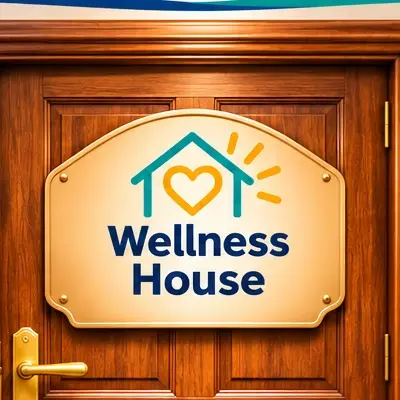
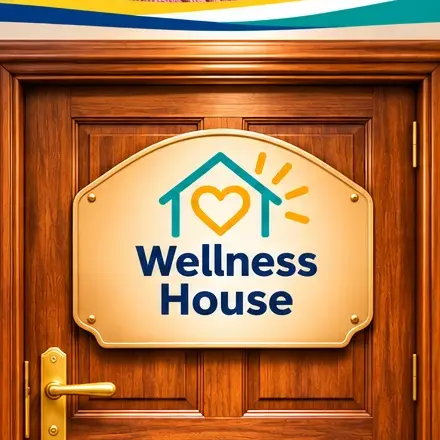
Fix Wellness House circle — wider crop shows sign with door frame
Removed scale(1.3) transform and re-cropped at 440x440 (was 400x400).
Badge now sits at ~65% of frame with ~90px door wood on each side,
matching the Therapeutic Learning circle's zoom level.

Claude-Session: https://claude.ai/code/session_01PLRV2N5tdZ4f7KmRmfyyS8

diff --git a/aldeia-wellness/src/components/Landing.jsx b/aldeia-wellness/src/components/Landing.jsx
@@ -138,7 +138,7 @@ export default function Landing({ onTherapeutic, onWellness }) {
             <div className="w-24 h-24 rounded-full overflow-hidden mb-4 flex-shrink-0"
               style={{ border: '3px solid rgba(255,255,255,0.35)', boxShadow: '0 4px 20px rgba(0,0,0,0.3)' }}>
               <img src="/images/door-wellness.webp" alt="Wellness House door"
-                className="w-full h-full object-cover" style={{ objectPosition: 'center', transform: 'scale(1.3)', transformOrigin: 'center' }} />
+                className="w-full h-full object-cover" style={{ objectPosition: 'center' }} />
             </div>
             <div className="text-white font-bold text-[1.65rem] leading-tight mb-3">
               Wellness<br/>House
